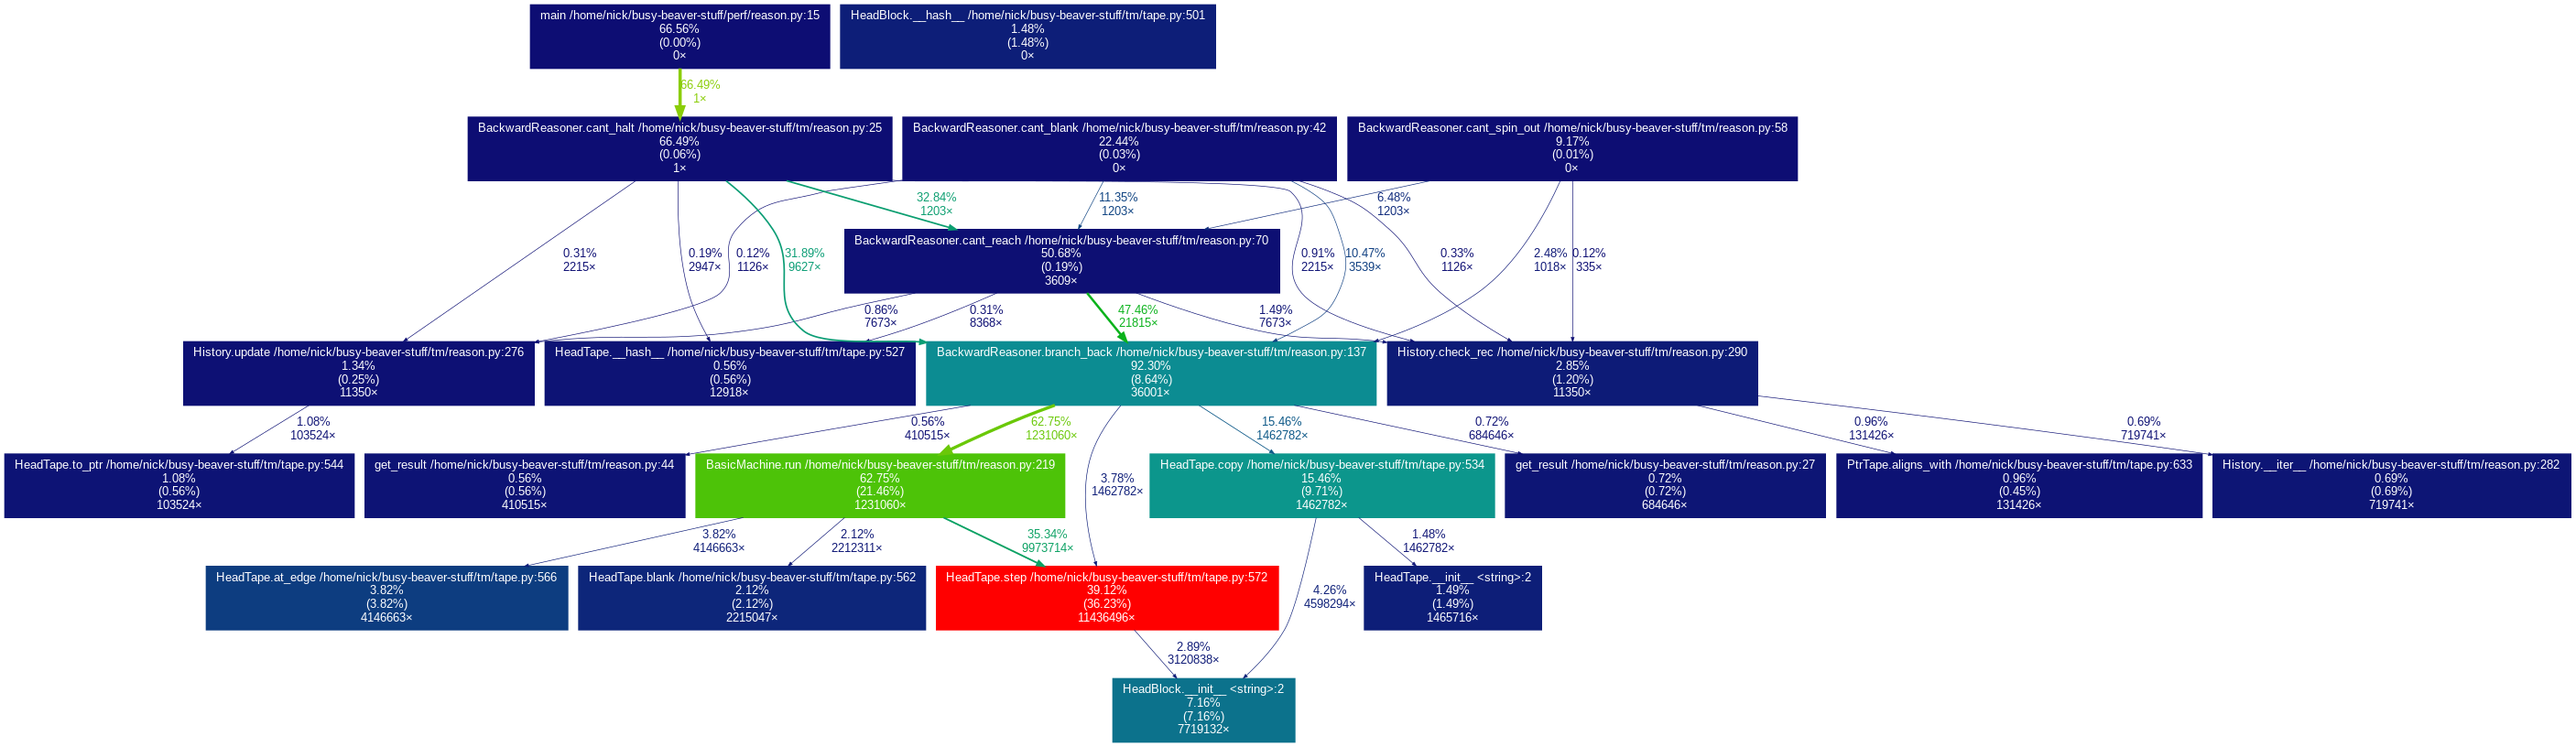
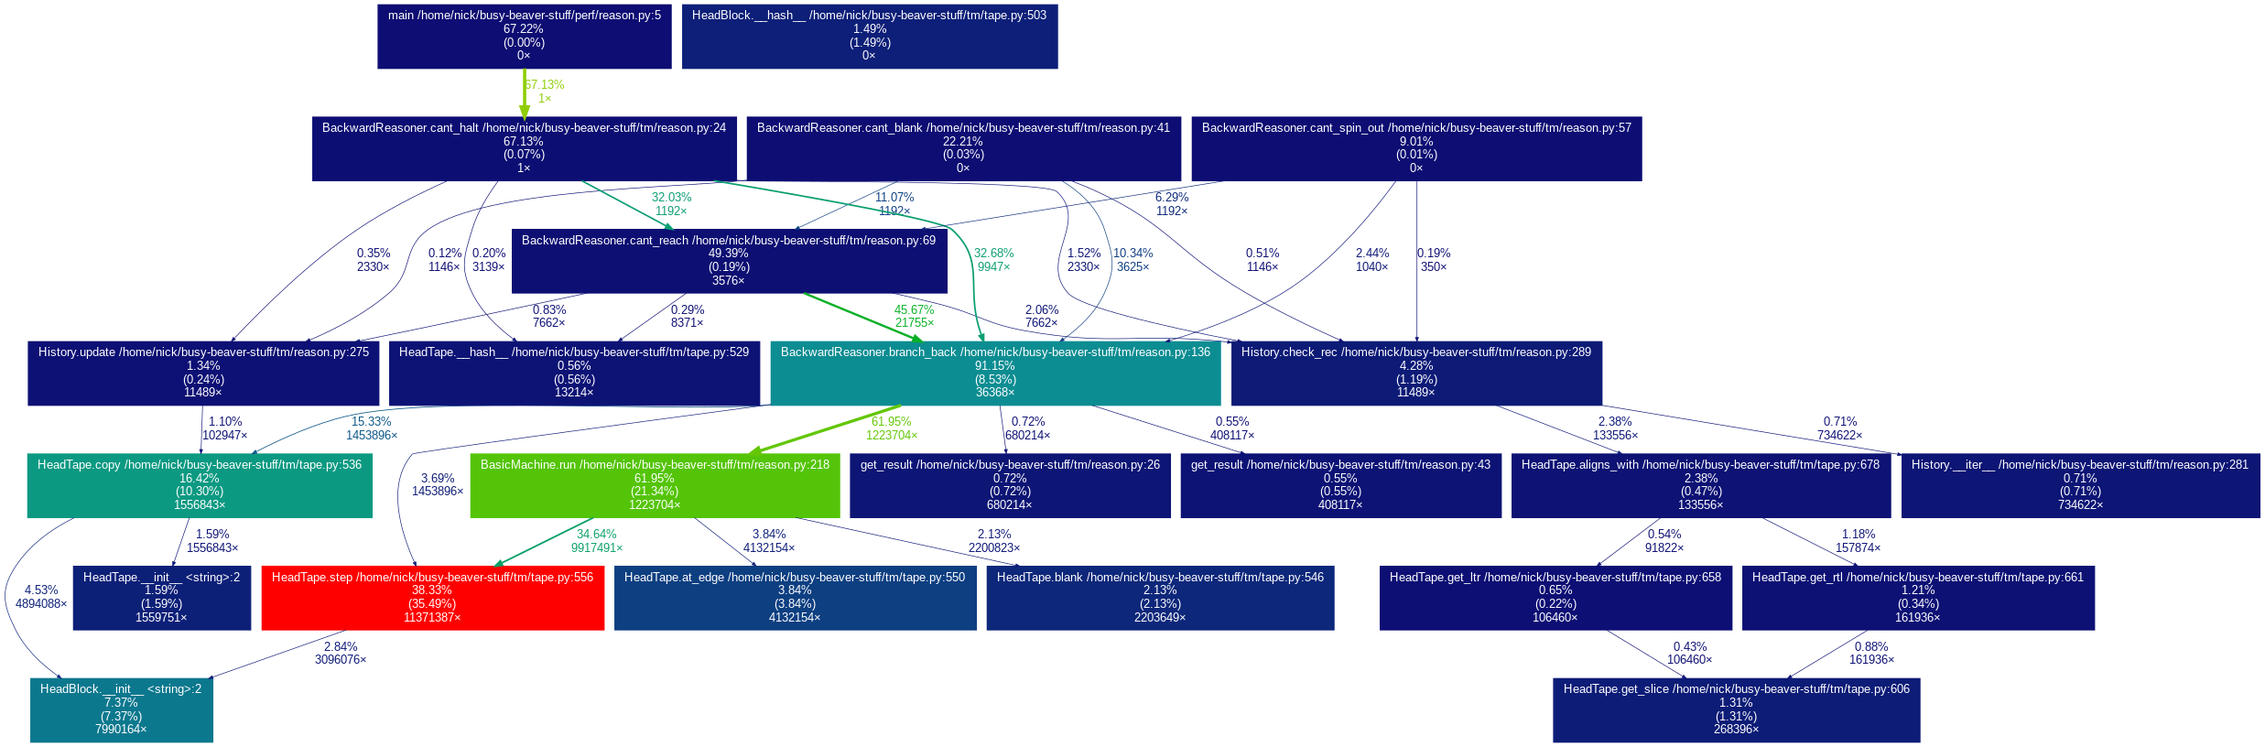
Implement slicing for HeadTape

Changed region(s): [[0.0, 0.0919, 0.996, 1.0], [0.1556, 0.0, 0.498, 0.0919], [0.0, 0.8885, 0.0934, 1.0]]

diff --git a/tm/tape.py b/tm/tape.py
@@ -543,24 +543,6 @@ class HeadTape:
             head = self.head,
         )
 
-    def to_ptr(self) -> PtrTape:
-        return PtrTape(
-            sum(int(q.count) for q in self.lspan) - self.head,
-            self.scan,
-            self.unroll(),
-        )
-
-    def unroll(self) -> list[Color]:
-        return [
-            block.color
-            for block in reversed(self.lspan)
-            for _ in range(int(block.count))
-        ] + [self.scan] + [
-            block.color
-            for block in self.rspan
-            for _ in range(int(block.count))
-        ]
-
     @property
     def blank(self) -> bool:
         return self.scan == 0 and not self.lspan and not self.rspan
@@ -621,14 +603,77 @@ class HeadTape:
 
         return stepped
 
-    def get_ltr(self, start: int) -> TapeSlice:
-        return self.to_ptr().get_ltr(start)
+    def get_slice(
+            self,
+            start: int,
+            *,
+            stop: int | None,  # pylint: disable = unused-argument
+            ltr: bool,
+    ) -> TapeSlice:
+        if ltr:
+            lspan, rspan = self.lspan, self.rspan
+            diff = self.head - start
+        else:
+            lspan, rspan = self.rspan, self.lspan
+            diff = start - self.head
 
-    def get_rtl(self, stop: int) -> TapeSlice:
-        return self.to_ptr().get_rtl(stop)
+        tape: TapeSlice = []
+
+        if diff > 0:
+            for block in lspan:
+                if diff <= (count := block.count):
+                    tape.extend(
+                        [block.color] * diff)
+
+                    break
+
+                assert isinstance(count, int)
+
+                tape.extend(
+                    [block.color] * count)
+
+                diff -= count
+
+                if diff <= 0:  # no-cover
+                    break
+
+            else:
+                assert diff > 0
+
+                tape.extend(
+                    [0] * diff)
+
+            tape.reverse()
+
+        tape.append(self.scan)
+
+        for block in rspan:
+            assert isinstance(block.count, int)
+
+            tape.extend(
+                [block.color] * block.count)
+
+        return tape
+
+    def get_ltr(self, start: int, stop: int | None = None) -> TapeSlice:
+        return self.get_slice(start, stop = stop, ltr = True)
+
+    def get_rtl(self, start: int, stop: int | None = None) -> TapeSlice:
+        return self.get_slice(start, stop = stop, ltr = False)
 
     def get_cnt(self, start: int, stop: int) -> TapeSlice:
-        return self.to_ptr().get_cnt(start, stop)
+        assert start <= (head := self.head) <= stop
+
+        if start == head:
+            return self.get_ltr(start, stop = stop)
+
+        if stop == head:
+            return self.get_rtl(start, stop = start)
+
+        return (
+            self.get_rtl(head - 1, stop = start)
+            + self.get_ltr(head, stop = stop)
+        )
 
     def aligns_with(
             self,
@@ -650,37 +695,3 @@ class HeadTape:
             slice2 = self.get_cnt(leftmost, rightmost)
 
         return slice1 == slice2
-
-
-@dataclass
-class PtrTape:
-    init: int
-    scan: Color
-    tape: list[Color]
-
-    def get_ltr(self, start: int) -> TapeSlice:
-        start += self.init
-
-        return (
-            self.tape[ start : ]
-            if (ldiff := -start) <= 0 else
-            [0] * ldiff + self.tape
-        )
-
-    def get_rtl(self, stop: int) -> TapeSlice:
-        stop += self.init + 1
-
-        return (
-            self.tape[ : stop ]
-            if (rdiff := stop - len(self.tape)) <= 0 else
-            self.tape[ : stop - rdiff ] + [0] * rdiff
-        )
-
-    def get_cnt(self, start: int, stop: int) -> TapeSlice:
-        start += self.init
-        stop += self.init + 1
-
-        return [
-            self.tape[pos] if 0 <= pos < len(self.tape) else 0
-            for pos in range(start, stop)
-        ]

diff --git a/test/lin_rec.py b/test/lin_rec.py
@@ -6,7 +6,7 @@ from collections import defaultdict
 from dataclasses import dataclass, field
 
 from tm.parse import tcompile
-from tm.tape import HeadTape, PtrTape
+from tm.tape import HeadTape
 
 if TYPE_CHECKING:
     from typing import Self
@@ -20,13 +20,26 @@ if TYPE_CHECKING:
     TapeSlice = list[Color]
 
 
-class PtrTapeLR(PtrTape):
+@dataclass
+class PtrTape:
+    init: int
+    scan: Color
+    tape: list[Color]
+
     @classmethod
     def from_head(cls, tape: HeadTape) -> Self:
         return cls(
             sum(int(q.count) for q in tape.lspan) - tape.head,
             tape.scan,
-            tape.unroll(),
+            [
+                block.color
+                for block in reversed(tape.lspan)
+                for _ in range(int(block.count))
+            ] + [tape.scan] + [
+                block.color
+                for block in tape.rspan
+                for _ in range(int(block.count))
+            ],
         )
 
     def get_ltr(self, start: int) -> TapeSlice:
@@ -83,7 +96,7 @@ class PtrTapeLR(PtrTape):
 
 
 if TYPE_CHECKING:
-    Tapes = dict[int, PtrTapeLR]
+    Tapes = dict[int, PtrTape]
 
 
 @dataclass
@@ -117,7 +130,7 @@ class History:
         self.positions += [pos] * (step - len(self.positions))
         self.positions.append(pos)
 
-        self.tapes[step] = PtrTapeLR.from_head(tape)
+        self.tapes[step] = PtrTape.from_head(tape)
 
     def check_rec(self, step: int, slot: Slot) -> RecRes | None:
         for pstep in self.slots[slot]:

diff --git a/test/test_coverage.py b/test/test_coverage.py
@@ -145,6 +145,16 @@ class TestFloss(TestCase):
                 "1RB ...  0LB 0RA"
             ).run())
 
+        self.assertFalse(
+            quick_term_or_rec(
+                "1RB ...  0LB 1LA",
+                10))
+
+        self.assertFalse(
+            quick_term_or_rec(
+                "1RB 1LA ...  2LB 1RB 0LA",
+                50))
+
     def test_prover(self):
         progs = (
             "1RB 2LA 3LA 2LA  3LB 3RA 0RA 0RB",
